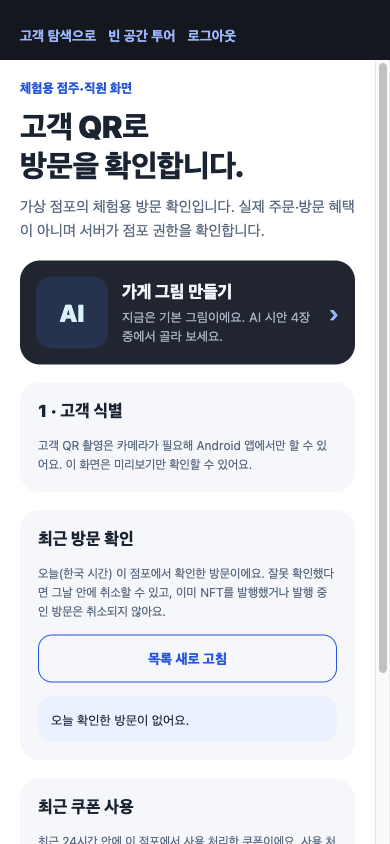
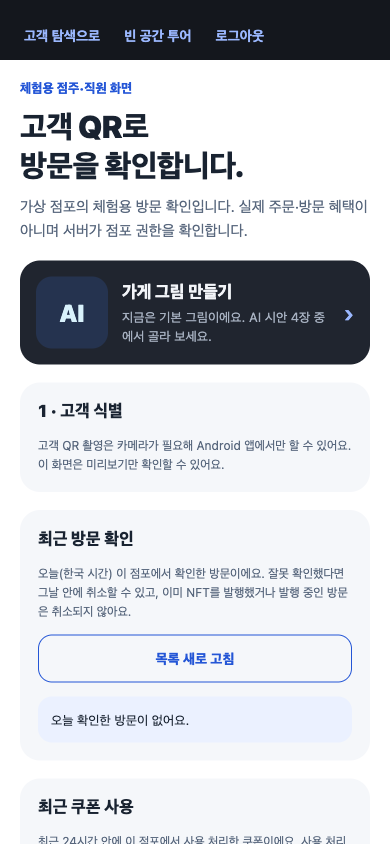
PR #313 리뷰 대응 문서·증거를 남긴다 (Issue #309)
D-065에 리뷰 대응 단락 추가(가드 위치·근거), TEST_STATUS·PROJECT_STATE·
HANDOFF 최신 항목, AI_USAGE 기록. 도감 화면의 새 미해결 결함을
BLOCKERS B-029로 분리했다 — 배지 1개 이상을 모은 계정으로 웹 도감을
열면 CSSStyleDeclaration 충돌이 난다. 6개 가설(GiftBox·Medallion·
PassportStampPage 애니메이션, 봉투 열기 세 화면, React Compiler)을
각각 되돌려 재현을 확인하고 모두 기각했지만 원인 컴포넌트는 특정하지
못했다. 배지 0개 상태는 영향 없어 심사 시연 자체는 가능하다.

역할 선택·체험 로그인(명/암)·점주 체험(명/암) 스크린샷을 이번 라운드의
깨끗한 빌드(바이섹션 임시 수정 없이)로 다시 찍고, 도감 충돌 재현
스크린샷을 새로 더했다.

Constraint: B-029는 원인 미특정이라 이 PR 범위에서 고치지 않는다(명세
결함이 아니라 재현되는 실제 버그이므로 되돌리거나 숨기지 않고 BLOCKER로
남김).
Confidence: high(재현 조건을 curl + Playwright로 재현 가능한 최소
단계까지 좁혔다. 원인 컴포넌트 식별은 low).
Scope-risk: 문서·증거 변경만, 코드 변경 없음.
Tested: bash tools/gate.sh(evidence consistency 포함) PASS.
Not-tested: B-029의 근본 원인.

diff --git a/docs/DECISIONS.md b/docs/DECISIONS.md
@@ -105,7 +105,7 @@
 | D-061 | PR #257(사진 수집품 제작기) 병합 지시와 그 범위 | 소유자가 2026-09-30 리뷰 결과(🔴 3건)를 본 뒤 PR 전체에 "직접 고쳐서 병합 ㄱㄱ"라고 지시했다. 그 리뷰는 `expo-audio`(D-045가 새 npm 의존성에 요구한 소유자 승인)와 점주가 직접 올린 실제 얼굴·가게 사진·목소리(D-056이 D-036·D-045·D-048의 "실제 점포 사진 금지"와 달리 허용)에 소유자 확인이 필요하다고 적었다. **이 둘은 별도의 명시적 확인이 아니라 이 병합 지시를 통해 승인된 것으로 기록한다.** Android 재생 전용 `expo-audio`(마이크·백그라운드 재생 권한 없음)와 사진 제작기의 실제 사진·목소리 사용이 그 대상이며, 소유자가 되돌리려면 이 행을 고치고 해당 기능을 뺀다. 병합 전 수정: 획득은 참조만 저장, 보상 경로 잠금 완화·실패 분리, 삭제한 점주 발행본 배포 중지·게시 중지·삭제·운영자 미디어 제거, MP3 태그·원본 EXIF 제거, 8 MiB 본문·점포별 쓰기 제한, 제작기용 캠페인 목록 API. **처리방침 버전:** 같은 범위에서 `docs/privacy.html`에 사진·목소리 수집품 처리 안내(수집 항목·보관·삭제·운영자 제거)를 더했으므로 `CURRENT_PRIVACY_VERSION`(API·웹·앱 상수)을 `privacy-2026-10-01`로 올려 모든 계정이 다시 동의한다(약관 `terms-2026-09-30`은 그대로). **옛 빌드에 미치는 영향:** 동의 화면이 든 빌드(운영 test.4, 시연 Preview 12·13)는 이 버전을 모르므로, 서버가 `privacy-2026-10-01`을 요구하는 순간(D-059 설계) "앱을 업데이트해 주세요" 안내에 막혀 새 APK를 설치할 때까지 쓸 수 없다. 동의 화면이 없는 더 옛 앱(운영 test.3, 시연 Preview 11 이하)은 D-059대로 막지 않는다. **배포 순서(지킬 것):** 병합 → 이 코드가 든 운영·시연 APK를 새로 빌드해 배포 → **그 뒤에** API·웹 배포. API·웹을 먼저 배포하면 설치돼 있는 동의 화면 빌드가 새 APK가 나오기 전까지 업데이트 안내에 막힌다 | `USER_CONFIRMED` | 소유자 지시(2026-09-30 "직접 고쳐서 병합 ㄱㄱ")와 [리뷰](https://github.com/2026-KW-HACKATHON/27_MassCOM/pull/257). `expo-audio`·실제 사진·목소리는 이 지시에 포함된 것으로 기록한 것이라 소유자가 뒤집을 수 있다. 인물·목소리의 삭제 요구는 처리방침의 운영자 제거 절차로 받는다. 실기기·운영 배포 검증은 별도다 **순서 이탈 기록(2026-10-01):** 위 순서와 달리 메인 스레드가 일부러 두 APK를 먼저 빌드하고 운영·시연을 배포한 뒤 새 서버에 대해 폰에서 새 동의 화면을 확인하고 나서 test.5·Preview 14를 게시했다(새 동의 화면은 새 버전을 이미 요구하는 서버에서만 확인할 수 있다). 운영 배포 완료부터 게시(약 20:20 UTC)까지 약 15~20분 동안 동의하지 않은 test.4·Preview 12·13 계정이 업데이트 안내에 막혔고 이 빌드는 팀 계정만 쓴다([증거](evidence/deployment-7bcfef9-2026-10-01.json)) |
 | D-063 | 마일리지 상점(코스메틱 캐릭터 재뽑기, Issue #298) | **소유자 결정(`USER_CONFIRMED`, 2026-10-01):** (1) 재뽑기는 같은 등급 안에서만 균등 무작위이고 코스메틱 프로필 캐릭터에만 적용된다. (2) 현금 충전·사용자 간 양도·환전은 없다(포인트는 서버가 방문 기록으로 계산만 하고 저장된 "돈"이 아니다). (3) 상점 캐릭터는 펭귄일 필요가 없다 — 에이전트가 "하늘 동네 가게 친구들" 9종(등급마다 3종: 브론즈 요리사 냥이·카페 곰돌이·산책 토끼, 실버 빵집 다람쥐·꽃집 고슴도치·책방 부엉이, 골드 떡집 호랑이·시장 너구리·세탁소 물범)을 선택했다. 방문 보상·도감·NFT·쿠폰 규칙은 바뀌지 않는다. **구현 선택(`PROPOSED`, 에이전트):** (a) 적립 공식 `earned = 50 × 센 방문 + 100 × 그 방문들의 서로 다른 점포 + 200 × 완성한 점포 시리즈`는 저장하지 않고 요청마다 계산하며, 센 방문·서로 다른 점포는 `GET /me/badges`의 메달 집계와 같은 SQL(`badge-rewards.ts`의 `countedVisitFromSql`/`countedVisitFilterSql`)을 그대로 재사용한다(다시 만들지 않음). (b) 완성한 점포 시리즈는 그 점포의 아무 캠페인이든(끝났거나 비공개여도) 모든 보상 목표에 유효·비철회 `reward_entitlements`가 있어야 하며, 공개 점포 카탈로그는 보지 않는다. (c) 가격은 브론즈 100P·실버 200P·골드 400P, 시간당 재뽑기 30회 제한. (d) 재뽑기 트랜잭션은 기존 `assertActive` 계정 잠금만 쓰고 별도 잠금은 두지 않는다(방문 수령·되돌리기와 같은 직렬화). | `USER_CONFIRMED`(1~3) · `PROPOSED`(a~d) | 2026-10-01, 브랜치 `feat/298-shop-server`(worktree `.worktrees/298-shop-server`), migration 0038(0037은 PR #300이 먼저 쓸 수 있어 파일명 순서로만 뒤를 잡음, PR 설명에 의존 관계 기록). 서버 구현만이며 Android(상점 탭·뽑기 연출)는 후속 PR. 세부는 [설계](superpowers/specs/2026-10-01-mileage-shop-design.md). 코드·시험 상태는 [TEST_STATUS](TEST_STATUS.md) |
 | D-062 | 점주 체험 권한을 요청·승인하는 서버 흐름(PR1), Issue #294 | 허용목록 기반 STAFF 부여(`SHOWCASE_INVITED_SUBJECT_SHA256`)는 그대로 두고, **두 번째 경로**로 시연 로그인 계정이면 누구나 서버에 요청을 넣어 8자 코드를 받고(migration 0037 `showcase_access_requests`, 운영 DB에는 빈 스키마만) 승인자가 수락하면 같은 가상 점포 A STAFF 권한을 받는다. 승인자 역할은 새로 만들지 않고 시연 DB의 `platform_admins`를 그대로 쓴다(계정 삭제 purge·3년 감사는 D-059가 이미 구현한 것을 물려받음). 승인 핵심(`grantShowcaseStaffTx`: DB 이름·계정 활성·가상 점포 A·멤버십)은 기존 `grant-staff.ts`에서 떼어내 운영자 명령과 공유하고, 요청 쪽은 허용목록·세션 검사를 건너뛴다(요청 행 자체가 자격 증명). **부트스트랩(최초 승인자를 만드는 법):** 승인자 후보가 직접 자신의 계정으로 로그인해 요청을 넣고 코드를 자신의 Gmail로 보내 신원을 증명하면, 운영자가 명령 하나(`grant:showcase:approver`)로 승인자 역할과 그 요청의 승인을 함께 끝낸다. 지정 승인자는 `msocs1324@gmail.com`·`priestess4637@gmail.com`이다. | `PROPOSED`(에이전트 구현 선택, 소유자 승인 전) | [Issue #294](https://github.com/2026-KW-HACKATHON/27_MassCOM/issues/294) 설계(2026-10-01 opus architect). 코드는 PR1(서버)만이고 모바일 화면(PR2)·테스트 방문(PR3, Issue #295)은 별도 PR이다. [B-028](BLOCKERS.md)이 지적한 "시연 직원 부여에 감사 행이 없다"의 **새 경로**는 요청 행 자체와 운영자 명령의 `platform_admin_role_audit` GRANT 행으로 메워지지만, 기존 허용목록 경로(`grant-staff.ts`)의 감사 공백은 이 PR 범위 밖이라 그대로 남는다. 자세한 API·데이터 모델은 [시연 인증 경계 문서](SHOWCASE_AUTH_GUARD.md#점주-체험-권한-요청승인-issue-294-pr1-서버)와 [apps/api/README.md](../apps/api/README.md#엔드포인트) |
-| D-065 | 시연 웹 체험(Expo 웹 빌드) 클라이언트, Issue #309 | 서버 쪽 결정(체험 세션·체험 가게 목록 제외·로컬 Bearer)은 D-064(브랜치 `feat/309-guest-trial-api`, 이 PR 기준 미병합)를 본다. 이 PR은 클라이언트만: `app.json`의 `web.output`을 `static`에서 `single`로 바꿔 Expo Router 정적 사전 렌더링이 Node에서 네이티브 전용 모듈(react-native-nitro-google-signin 등)을 실행하다 막히는 문제를 없앴다. `MASSCOM_WEB_BASE_URL`(시연 전용, `/play`)로 `experiments.baseUrl`을 설정하고 `export:web:showcase` 스크립트를 추가했다. 시연·개발 판별은 `Application.applicationId`(웹에서 항상 `null`) 대신 `getAppPackageId()`로 모았고, 웹에서는 `Constants.expoConfig`가 `android` 키를 통째로 빼므로(Playwright로 직접 확인) 남아 있는 `scheme`을 거꾸로 package id로 되돌리는 `package-id-from-scheme.ts`로 대체했다. Google 로그인(`react-native-nitro-google-signin`은 웹 빌드가 없음)은 네이티브 전용으로 유지하고, 웹은 체험 로그인(`POST /auth/guest-trial`)만 쓰도록 `auth-provider.tsx`를 `Platform.OS`로 가른다. 세션 저장소는 `platform-secure-store`(웹은 `localStorage`, `expo-secure-store`의 웹 구현은 빈 객체라 모든 호출이 던진다)로 교체했다. 카메라(방문 수령·친구·점주 직원 QR 식별)·기울임 센서 토글은 웹에서 안내 문구로 가린다 — 점주 직원 화면의 고객 QR 식별은 43자 보안 토큰을 손으로 입력하는 대체 수단을 만들지 않고(비현실적이고 토큰 노출 위험) 안내만 둔다(알려진 제한). 점주 체험 화면은 D-064의 `trialMerchantId`(공개되지 않는 개인 체험 가게)를 공개 목록 앞에 더해 찾는다. **부수 발견(근본 원인 수정):** `AuthApiClient`·`WalletApiClient`·`ConsentApiClient`·`AccountDeletionApiClient`·`AccountDeletionIntakeApiClient`가 기본 `fetch`를 `this.<필드>(...)`(메서드 호출 문법)로 불러, 실제 브라우저에서 "Illegal invocation"으로 모든 요청이 실패했다(Node의 `fetch`는 호출 주체를 검사하지 않아 기존 유닛 테스트·Android에서는 드러나지 않았다 — Playwright로 체험 로그인 화면을 직접 눌러보다 발견). 저장하는 쪽에서 `fetch.bind(globalThis)`로 고쳤다(5개 클라이언트 모두, 같은 모양이 아닌 나머지 API 클라이언트는 지역 변수로 받아 호출해 이 버그가 없음을 확인). **PR #311 병합(D-064) 반영:** 같은 429도 서버 코드로 갈린다 — 짧은 폭주(IP당 15분 20회)는 `GUEST_TRIAL_RATE_LIMITED`, 한 IP의 끝나지 않은 체험 30개 상한은 `GUEST_TRIAL_IP_LIMIT`(Retry-After 없음)이라 `auth-controller.ts`가 HTTP 상태만이 아니라 이 코드로도 갈라 별도 한국어 안내("이 네트워크에서 체험이 너무 많아요...")를 붙였다. | `PROPOSED`(에이전트 구현 선택, 소유자 승인 전) | Issue #309, 브랜치 `feat/309-showcase-web`(worktree `.worktrees/309-web`), 기준 커밋 `e2091f2`에 origin/main(#308 포함)을 병합. 로컬 임시로 `feat/309-guest-trial-api`를 스크래치 디렉터리에서만 합쳐(커밋하지 않음) Playwright로 guest start → consent → explore → collection → shop/role 점주까지 실제로 걸었다(`docs/evidence/309-showcase-web`). 이후 origin/main에 병합된 서버 PR #311(439ba83)을 실제로 합쳐 같은 계약(`trialMerchantId`·guest-trial 응답)을 로컬 API로 재확인했다. 코드·시험 상태는 [TEST_STATUS](TEST_STATUS.md) |
+| D-065 | 시연 웹 체험(Expo 웹 빌드) 클라이언트, Issue #309 | 서버 쪽 결정(체험 세션·체험 가게 목록 제외·로컬 Bearer)은 D-064(브랜치 `feat/309-guest-trial-api`, 이 PR 기준 미병합)를 본다. 이 PR은 클라이언트만: `app.json`의 `web.output`을 `static`에서 `single`로 바꿔 Expo Router 정적 사전 렌더링이 Node에서 네이티브 전용 모듈(react-native-nitro-google-signin 등)을 실행하다 막히는 문제를 없앴다. `MASSCOM_WEB_BASE_URL`(시연 전용, `/play`)로 `experiments.baseUrl`을 설정하고 `export:web:showcase` 스크립트를 추가했다. 시연·개발 판별은 `Application.applicationId`(웹에서 항상 `null`) 대신 `getAppPackageId()`로 모았고, 웹에서는 `Constants.expoConfig`가 `android` 키를 통째로 빼므로(Playwright로 직접 확인) 남아 있는 `scheme`을 거꾸로 package id로 되돌리는 `package-id-from-scheme.ts`로 대체했다. Google 로그인(`react-native-nitro-google-signin`은 웹 빌드가 없음)은 네이티브 전용으로 유지하고, 웹은 체험 로그인(`POST /auth/guest-trial`)만 쓰도록 `auth-provider.tsx`를 `Platform.OS`로 가른다. 세션 저장소는 `platform-secure-store`(웹은 `localStorage`, `expo-secure-store`의 웹 구현은 빈 객체라 모든 호출이 던진다)로 교체했다. 카메라(방문 수령·친구·점주 직원 QR 식별)·기울임 센서 토글은 웹에서 안내 문구로 가린다 — 점주 직원 화면의 고객 QR 식별은 43자 보안 토큰을 손으로 입력하는 대체 수단을 만들지 않고(비현실적이고 토큰 노출 위험) 안내만 둔다(알려진 제한). 점주 체험 화면은 D-064의 `trialMerchantId`(공개되지 않는 개인 체험 가게)를 공개 목록 앞에 더해 찾는다. **부수 발견(근본 원인 수정):** `AuthApiClient`·`WalletApiClient`·`ConsentApiClient`·`AccountDeletionApiClient`·`AccountDeletionIntakeApiClient`가 기본 `fetch`를 `this.<필드>(...)`(메서드 호출 문법)로 불러, 실제 브라우저에서 "Illegal invocation"으로 모든 요청이 실패했다(Node의 `fetch`는 호출 주체를 검사하지 않아 기존 유닛 테스트·Android에서는 드러나지 않았다 — Playwright로 체험 로그인 화면을 직접 눌러보다 발견). 저장하는 쪽에서 `fetch.bind(globalThis)`로 고쳤다(5개 클라이언트 모두, 같은 모양이 아닌 나머지 API 클라이언트는 지역 변수로 받아 호출해 이 버그가 없음을 확인). **PR #311 병합(D-064) 반영:** 같은 429도 서버 코드로 갈린다 — 짧은 폭주(IP당 15분 20회)는 `GUEST_TRIAL_RATE_LIMITED`, 한 IP의 끝나지 않은 체험 30개 상한은 `GUEST_TRIAL_IP_LIMIT`(Retry-After 없음)이라 `auth-controller.ts`가 HTTP 상태만이 아니라 이 코드로도 갈라 별도 한국어 안내("이 네트워크에서 체험이 너무 많아요...")를 붙였다. **PR #313 교차 리뷰 반영(Codex gpt-6.1-sol REQUEST_CHANGES 1×P1, Claude sonnet 보안 APPROVE 같은 지적 Medium+Low 2):** (1·P1) `app.config.ts`의 `platforms` 제한은 build-time 정보일 뿐 `expo export --platform web`을 실제로 막지 못함을 실측으로 확인해, 진짜 방어선을 런타임으로 옮겼다 — 새 `guest-trial-origin.ts`의 `isApprovedGuestTrialOrigin(packageId, apiUrl)`이 시연 패키지(`kr.masscom.wolgye.demo`)는 실제 시연 origin(`https://demo-api.masscom.kr`)과만, 개발 패키지(`kr.masscom.wolgye.dev`)는 loopback host와만 짝지어지는지 확인하고 나머지(운영 패키지·알 수 없는 패키지·주소 파싱 실패)는 모두 거절한다. `auth-provider.tsx`의 `guestTrialAvailable`이 이 함수를 거치게 해 맞지 않는 조합이면 체험 로그인 컨트롤러 자체를 만들지 않고 `WEB_SHOWCASE_ONLY` 사유로 로그아웃 상태를 유지한다(새 시험 4개 + `build-environment.test.ts`에 `platforms` 단언과 "값을 안 주면 막지 못한다"를 그대로 기록한 회귀 2개). (2·Low) `commerce-api.ts`·`showcase-merchant/index.tsx`의 주석이 "체험 가게는 `is_public=false`라 안 보인다"로 D-064(d)의 실제 결정(`is_public=true` 유지 + `NOT EXISTS` 필터)과 어긋나 있어 고쳤다. (3·4 UI) 웹 체험 로그인 패널의 eyebrow를 "개발용 계정"→"웹 체험"으로, 상시 노출되던 회색 안내 박스를 제거하고 복원 중·오류일 때만 보이게 하고, CTA를 전체 폭 56px 버튼으로 키우고 마스코트를 더했다(`auth-required/index.web.tsx`). 역할 선택의 "점주예요" 부제를 웹에서는 "로그인하면 점주 권한을 확인해요"→"내 체험 가게가 바로 열려요"로 바꿨다(`foundation/index.tsx`, `Platform.OS==='web'` 분기). (5 UI) 점주 체험 화면의 `StaffClaimScreen` 바깥 스크롤이 안쪽 스크롤과 겹쳐 두 번째 스크롤바가 보이던 문제를 웹에서만 `showsVerticalScrollIndicator={false}`로 가렸고(`merchant-claim/staff.tsx`), 상단 "고객 탐색으로·빈 공간 투어·로그아웃" 링크 줄이 390px에서 붙어 보이던 것을 `rowGap`/`columnGap` 분리와 버튼 좌우 여백으로 폈다(`showcase-merchant/index.tsx`, Android와 공유). **부수 발견:** `AccessibilityInfo.sendAccessibilityEvent`는 react-native-web에 구현이 없어 웹에서 "not a function"으로 던지던 것을, `focus-component.ts`의 `focusForAccessibility()` 가드로 6개 호출부(`reward-reveal`·`celebration`·`medal-detail`·`coupon-use-sheet`·`town-map/index`·`town-map/pin-sheet`)를 통일해 고쳤다(RN import가 있는 파일이라 `tsx --test` 직접 시험은 안 되는 기존 패턴을 따라 `town-map/index.test.ts`의 소스텍스트 단언만 갱신). **새로 찾은 미해결 결함(B-029로 분리, 이 PR 범위 밖):** 배지를 1개 이상 모은 계정으로 `/collection`을 웹에서 열면 `Failed to set an indexed property [0] on 'CSSStyleDeclaration'` 충돌이 난다 — `gift-box.tsx`·`medallion.tsx`·`passport-stamp-page.tsx`·봉투 열기 화면들·React Compiler 끄기까지 6개 가설을 각각 되돌려 재현해 모두 기각했지만 원인 컴포넌트는 특정하지 못했다. 배지 0개 상태의 도감은 영향이 없어 시연 자체는 가능하다. | `PROPOSED`(에이전트 구현 선택, 소유자 승인 전) | Issue #309, 브랜치 `feat/309-showcase-web`(worktree `.worktrees/309-web`), 기준 커밋 `e2091f2`에 origin/main(#308 포함)을 병합. 로컬 임시로 `feat/309-guest-trial-api`를 스크래치 디렉터리에서만 합쳐(커밋하지 않음) Playwright로 guest start → consent → explore → collection → shop/role 점주까지 실제로 걸었다(`docs/evidence/309-showcase-web`). 이후 origin/main에 병합된 서버 PR #311(439ba83)을 실제로 합쳐 같은 계약(`trialMerchantId`·guest-trial 응답)을 로컬 API로 재확인했다. 코드·시험 상태는 [TEST_STATUS](TEST_STATUS.md) |
 ## 2026-10-02 로그인 없는 시연 웹 체험 (Issue #309)
 
 | ID | 항목 | 결정·구현 기본값 | 현재 상태 | 근거·영향 |

diff --git a/docs/TEST_STATUS.md b/docs/TEST_STATUS.md
@@ -1,5 +1,7 @@
 # 테스트 상태
 
+2026-10-02 [Issue #309](https://github.com/2026-KW-HACKATHON/27_MassCOM/issues/309) [PR #313](https://github.com/2026-KW-HACKATHON/27_MassCOM/pull/313) 교차 리뷰(Codex gpt-6.1-sol REQUEST_CHANGES 1×P1, Claude sonnet 보안 APPROVE 같은 지적 Medium+Low 2) 반영, 브랜치 `feat/309-showcase-web`: **P1** 런타임 가드 `isApprovedGuestTrialOrigin()`(새 `config/guest-trial-origin.ts`)을 추가해 `auth-provider.tsx`의 `guestTrialAvailable`이 패키지·API origin 조합(시연 패키지↔시연 origin, 개발 패키지↔loopback만)을 확인하게 했다 — `app.config.ts`의 `platforms` 빌드 제한은 `expo export --platform web`을 실제로 막지 못함을 실측 확인했고(production/development에 `MASSCOM_WEB_BASE_URL` 없이도 export가 "성공"), 이 런타임 검사가 진짜 방어선임을 `build-environment.test.ts`에 그대로 기록했다. **Low** `commerce-api.ts`·`showcase-merchant/index.tsx`의 "체험 가게는 is_public=false라 안 보인다" 주석을 D-064(d)의 실제 동작(is_public=true 유지 + `NOT EXISTS` 필터)으로 고쳤다. **UI(3·4·5)** 웹 체험 로그인 패널 eyebrow "개발용 계정"→"웹 체험", 상시 노출 회색 안내 제거, 전체 폭 56px CTA·마스코트 추가(`auth-required/index.web.tsx`); 역할 선택 "점주예요" 부제를 웹에서 "내 체험 가게가 바로 열려요"로(`foundation/index.tsx`); 점주 체험 화면의 중첩 스크롤바를 웹에서 숨기고(`merchant-claim/staff.tsx`) 상단 링크 줄 간격을 `rowGap`/`columnGap`으로 분리(`showcase-merchant/index.tsx`, Android와 공유 코드). **부수 발견(근본 원인 수정):** `AccessibilityInfo.sendAccessibilityEvent`가 react-native-web에 없어 웹에서 "not a function"으로 던지던 것을 새 `accessibility/focus-component.ts`의 `focusForAccessibility()`로 6개 호출부에서 통일했다. **결과:** `npm test --prefix apps/mobile` **1041/1041 PASS**(새 시험 6개: `guest-trial-origin.test.ts` 4개 + `build-environment.test.ts`의 origin 가드·`platforms` 회귀 2개), `npm run typecheck`·`npm run lint --prefix apps/mobile` PASS, `npm run export:android --prefix apps/mobile`(production·showcase) PASS, `MASSCOM_BUILD_SOURCE_COMMIT`·`MASSCOM_SHOWCASE_GOOGLE_WEB_CLIENT_ID`를 넘긴 `npm run export:web:showcase --prefix apps/mobile` PASS, `bash tests/mobile/check_accessibility_semantics_test.sh` PASS, `bash tools/gate.sh` PASS. 새 가드(`isApprovedGuestTrialOrigin`의 각 분기, `focusForAccessibility`의 함수 존재 확인)마다 되돌려 대응 시험이 실패하는지 확인한 뒤 복구했다. **실제 걸어본 재확인(로컬, Playwright, 병합된 PR #311 서버로):** 역할 선택(웹 부제 확인)→체험 로그인(웹 전용 패널 확인)→동의→탐색→점주 체험(trialMerchantId로 찾은 체험 가게, 링크 줄·스크롤 확인) 구간은 콘솔 오류 0으로 재확인했고 `docs/evidence/309-showcase-web/`의 역할 선택·체험 로그인(명/암)·점주 체험(명/암) 스크린샷을 이 라운드의 깨끗한 빌드로 다시 찍었다. **새로 찾은 미해결 결함(B-029, 이 PR 범위 밖으로 분리):** 배지를 1개 이상 모은 계정으로 `/collection`을 열면 `Failed to set an indexed property [0] on 'CSSStyleDeclaration'` 충돌이 난다(`showcase-local-customer`에 테스트 방문으로 배지 1개를 만든 뒤 재현, `docs/evidence/309-showcase-web/collection-earned-crash-light-390.png`) — 배지 0개 상태의 도감은 영향이 없다. 6개 가설(GiftBox·Medallion·PassportStampPage의 Animated.View, 봉투 열기 세 화면, React Compiler)을 각각 비활성화해 재빌드했지만 충돌이 그대로 재현돼 모두 기각했다(원인 미특정, [BLOCKERS B-029](BLOCKERS.md) 참고). 이 때문에 요청받은 전체 걷기("guest start→테스트 방문→봉투 열기→도감→점주 체험, 콘솔 오류 0")는 도감 구간에서 `BLOCKED`다.
+
 2026-10-02 [Issue #309](https://github.com/2026-KW-HACKATHON/27_MassCOM/issues/309) 시연 웹 체험(클라이언트) 후속: 서버 PR #311이 main(`439ba83`)에 병합돼 `origin/main`을 실제로 합쳤다(이전 항목의 스크래치 임시 병합 대신). 병합 후 리뷰로 바뀐 계약 반영: 같은 `429`도 서버 코드로 갈린다(짧은 폭주 `GUEST_TRIAL_RATE_LIMITED` vs 한 IP 끝나지 않은 체험 30개 상한 `GUEST_TRIAL_IP_LIMIT`, Retry-After 없음) — `auth-controller.ts`의 `guestTrialFailureReason`이 HTTP 상태만이 아니라 이 코드로도 가르도록 `SignedOutReason`에 `GUEST_TRIAL_IP_LIMIT`을 추가하고, `status-copy.ts`에 "이 네트워크에서 체험이 너무 많아요..." 한국어 안내를 더했다(체험 가게 방문이 친구·메달 집계에서 빠지는 것은 서버 전용 변경이라 클라이언트 수정 없음). **결과:** `npm test --prefix apps/mobile` 1035/1035 PASS(기존 시험에 새 단언 추가, 새 시험 블록은 아님), typecheck·lint·`bash tools/gate.sh` PASS. 새 분기(`GUEST_TRIAL_IP_LIMIT`)를 되돌려 대응 시험이 실패하는지 확인한 뒤 복구. 병합된 실제 서버(스크래치 병합이 아닌 이 worktree의 `apps/api`)로 로컬 PostgreSQL+API를 다시 띄워 `/auth/guest-trial`·`GET /showcase/access-requests/mine`의 `trialMerchantId`·`/merchants`에서 체험 가게 제외를 재확인했다.
 
 2026-10-02 [Issue #309](https://github.com/2026-KW-HACKATHON/27_MassCOM/issues/309) 시연 웹 체험(클라이언트), 브랜치 `feat/309-showcase-web`, worktree `.worktrees/309-web`, 기준 커밋 `e2091f2`에 origin/main(#308 포함) 병합: **빌드 배관** `app.json`의 `web.output`을 `static`→`single`로 바꿔 Expo Router 정적 사전 렌더링이 Node에서 `react-native-nitro-google-signin` 등 네이티브 전용 모듈을 실행하다 막히는 문제를 없앴다(바꾸기 전 `expo export --platform web`은 `__fbBatchedBridgeConfig is not set` Invariant Violation으로 실패, 바꾼 뒤 PASS). `MASSCOM_WEB_BASE_URL`(시연 전용, `/play`, 다른 variant는 거절)로 `experiments.baseUrl`을 설정하고 `export:web:showcase` 스크립트를 추가했다(exported `index.html`의 모든 자산 경로가 `/play/...`로 확인됨). **시연·개발 판별** `getAppPackageId()`로 15곳 이상의 `Application.applicationId`(웹에서 항상 `null`) 직접 참조를 모았다. 웹에서는 `Constants.expoConfig`가 `android` 키를 통째로 빼므로(Playwright로 `window`에 직접 찍어 확인) `scheme`을 거꾸로 package id로 되돌리는 `package-id-from-scheme.ts`(순수 함수, 단위 테스트 2개)로 대체했다. **인증** Google 로그인은 네이티브 전용(`google-sign-in-runtime.web.ts` 스텁), 웹은 체험 로그인(`POST /auth/guest-trial`)만 — `auth-controller`에 `signInAsGuest`·`GUEST_TRIAL_RATE_LIMITED`/`GUEST_TRIAL_BUSY`(429/503 상태 코드로 구분)를 더했다. 세션 저장소는 `platform-secure-store`(웹은 `localStorage`)로 교체(`expo-secure-store`의 웹 구현은 빈 객체라 모든 호출이 던진다). **부수 발견(근본 원인 수정, 브라우저에서만 재현):** `AuthApiClient`·`WalletApiClient`·`ConsentApiClient`·`AccountDeletionApiClient`·`AccountDeletionIntakeApiClient`가 기본 `fetch`를 `this.<필드>(...)`로 불러 실제 브라우저에서 "Illegal invocation"으로 모든 요청이 실패하던 것을 `fetch.bind(globalThis)`로 고쳤다(Node `fetch`는 호출 주체를 검사하지 않아 기존 유닛 테스트에서는 드러나지 않음 — 가짜 브랜드 체크 fetch로 재현하는 회귀 시험 5개 추가, 각각 고치기 전으로 되돌려 실패 확인 후 복구). **카메라·센서** 방문 수령·친구·점주 직원 화면의 QR 촬영과 수집품 기울임 토글은 `can-use-camera`/`can-use-tilt-sensor`로 웹에서 가린다(점주 직원 화면의 고객 QR 식별은 대체 입력 없이 안내 문구만 — 43자 보안 토큰 손 입력은 비현실적이고 노출 위험이라 알려진 제한으로 남김). **점주 체험 화면** 서버 PR #311의 `trialMerchantId`(개인 체험 가게, 공개 목록에 없음)를 `findShowcaseStaffMerchant` 목록 앞에 더해 찾도록 `commerce-api.ts`·`showcase-merchant/index.tsx`를 바꿨다. **결과:** `npm test --prefix apps/mobile` 1035/1035 PASS(새 시험 약 35개 포함), `npm run typecheck`·`npm run lint --prefix apps/mobile` PASS, `npm run export:android --prefix apps/mobile`(production·showcase 모두) PASS, 새 `npm run export:web:showcase --prefix apps/mobile` PASS, `bash tests/mobile/check_accessibility_semantics_test.sh` PASS. **실제 걸어본 확인(로컬, Playwright):** 서버 PR #311(`feat/309-guest-trial-api`, 미병합)을 스크래치 디렉터리에서만 임시로 합쳐(커밋 안 함) 로컬 API(`masscom_showcase_test`)를 띄우고, API와 같은 origin으로 정적 파일+API를 함께 내주는 임시 프록시로 `APP_VARIANT=development` 웹 빌드를 서빙해 guest start(역할 선택: 사용자/점주)→체험 로그인→동의→탐색(가상 점포 A·B·C, 체험 가게 제외 확인)→도감(배지 0/9 등 빈 상태)→점주 역할(trialMerchantId로 찾은 체험 가게, 카메라 안내 문구)까지 콘솔 오류 0으로 확인(`docs/evidence/309-showcase-web`, 계정 ID·QR 비노출). **NOT_RUN:** 실제 서버 PR #311과의 통합(미병합이라 임시 로컬 확인만), CI에 `export:web:showcase` 단계 추가(이 PR에 포함, 실행은 CI에서), Caddy·compose 배포(다른 PR 범위), 실제 브라우저 수동 QA(크롬 개발자 도구 외 다른 브라우저).2026-10-02 [Issue #309](https://github.com/2026-KW-HACKATHON/27_MassCOM/issues/309) PR #311 교차 리뷰 반영(같은 브랜치 `feat/309-guest-trial-api`): **P1(Claude opus 보안)** IP당 15분 5회만으로는 한 IP가 하루 약 480번 시작해 300명 상한을 계속 채울 수 있었다 → 체험 행에 클라이언트 키 HMAC(`client_key_hash`, 0039 수정, 원래 IP 없음)을 두고 같은 advisory lock 아래 같은 키의 끝나지 않은 체험 30개면 `429 GUEST_TRIAL_IP_LIMIT`, 폭주 제한은 15분 20회(공용 NAT), 정리·계정 삭제가 해시를 지우고 DB CHECK가 끝난 행의 해시를 막는다. **P2(Codex gpt-6.1-sol)** 체험 가게 방문이 날짜가 바뀐 뒤 친구 도장·탐험 메달에 드러났다 → 공유 `countedVisitFilterSql`에서 체험 가게 방문을 뺐다(친구 값과 `/me/badges`·마일리지 같은 집합 유지). 다른 계정이 볼 수 있는 조회를 다시 훑었다: 공개 목록·추천(이미 제외)·친구(이번 수정) 밖의 도감·쿠폰·상점·점원 화면·관리자는 본인·자기 가게·운영 전용 범위다. **결과:** `npm test --prefix apps/api` 327/327 PASS, typecheck·build PASS, `npm run test:postgres`(폐기용 `postgres:16.10-alpine`, 만들고 지움) **342개 중 340 PASS·0 FAIL·2 기존 SKIP**, `guest-trials.postgres.integration.ts` 10/10(새 2건). **변이 시험 28건 모두 실패 확인**(기존 21건 재실행 + 새 7건: 키당 30개 상한, 정리의 해시 지우기, 삭제의 해시 지우기, HMAC→평문 SHA-256, 폭주 제한 20, 센 방문의 체험 가게 제외, `GUEST_TRIAL_IP_LIMIT`→429), `bash tools/gate.sh` PASS.

diff --git a/docs/BLOCKERS.md b/docs/BLOCKERS.md
@@ -30,6 +30,7 @@
 | B-026 | **팀 결제 확정 대기(2026-09-30).** 소유자가 "OpenAI 키는 팀 결제가 확정되지 않아 나중에 넣는다. 넣었다는 가정하에 완성해 달라"고 해서 시연 서버 `/opt/masscom-showcase/runtime.env`에 `SHOWCASE_OPENAI_API_KEY`를 넣지 않았고, 시연 API의 기동 로그는 `AI store art: disabled (OPENAI_API_KEY is empty)`([배포 증거](evidence/ai-store-art-deployment-2026-09-30.json)). 운영 키는 D-050에 따라 소유자 채널이 생길 때까지 계속 비우므로 운영은 이 항목의 대상이 아님. `docs/privacy.html`의 OpenAI 문의 주소도 소유자 확인 전. 월 예산은 USD 5로 확정([D-058](DECISIONS.md)). **켜기 준비는 끝남**([Issue #256](https://github.com/2026-KW-HACKATHON/27_MassCOM/issues/256), [증거](evidence/ai-art-enable-rehearsal-2026-09-30.json)): 켜기·끄기·상태 스크립트 `infra/showcase-host/enable-ai-art.sh`와 가짜 `docker` 시험, 가짜 키·가짜 OpenAI로 배포와 같은 Dockerfile 이미지를 돌린 컨테이너 리허설(224개 확인 PASS) | 사장님 AI 가게 그림의 시안 받기가 꺼져 있어 화면은 "준비 중"만 보이고 실제 OpenAI 호출·비용·지연·고객 화면의 AI 그림 표시를 실증할 수 없음 | 팀 결제 확정 뒤 소유자가 이 순서로 한다(에이전트는 키를 만들거나 저장소·대화에 두지 않는다): ① 서버 `/opt/masscom-showcase/runtime.env`(권한 600)에 `SHOWCASE_OPENAI_API_KEY=<키>` 한 줄을 직접 더한다 ② `sudo bash /opt/masscom-showcase/releases/<릴리스>/infra/showcase-host/enable-ai-art.sh enable`(그 릴리스에 스크립트가 없으면 저장소의 파일을 서버로 복사해 실행) ③ 출력의 `AI store art: enabled`·`showcase-api recreated ... healthy`·월 예산 5·하루 한도 3/3 확인 ④ [첫 실제 호출 확인표](../infra/showcase-host/README.md)(시안·최종 지연, `ai_art_spend` 비용, 최종 예상 $0.18 재보정, 고객 화면 표시, 월 예산 잔여)를 실행하고 결과를 증거로 남김 ⑤ OpenAI 문의 주소를 확인해 `docs/privacy.html`에 채움 | `BLOCKED` |
 | B-027 | 운영 NFT는 발행 준비 중(`NFT_MINTING_MODE: PREPARING` 고정, D-054)이지만 그 사이 생긴 보상 권리도 기존대로 `claim_expires_at`이 달성 뒤 90일이다 | 발행 서버·메인넷 승인이 90일보다 늦으면 발행 준비 중에 받은 권리가 발행을 열기 전에 만료돼 "권리 기록, 발행은 나중" 결정과 어긋난다(opus 보안 리뷰 🟡) | **go-live 전제 조건:** 운영을 `LIVE`로 바꾸기 전에 ① PREPARING 동안 생긴 권리의 `claim_expires_at`을 늘리는 migration(대상·새 기한은 그때 소유자 확인), ② 발행 서버·메인넷·NFT 시리즈 준비, ③ 그 뒤 compose의 `NFT_MINTING_MODE`를 바꾸는 별도 변경 순서로 연다. 지금은 기한 계산을 바꾸지 않는다 | `BLOCKED` |
 | B-028 | 개인정보의 안전성 확보조치 기준 제8조(개인정보취급자의 접속기록)를 지키는지 법률 검토를 하지 않았다: 관리자 웹 로그인·접속은 별도로 기록되지 않고(웹 세션 표와 감사 표만 있다), 운영 Caddy는 요청별 접속 기록을 남기지 않는다. 감사 기록 보관 기간(접근권한 3년·처리 기록 1년)은 정했지만 무엇을 접속기록으로 남겨야 하는지는 확정하지 않았다(Issue #253 독립 보안 리뷰 지적) | 실제 개인정보를 다루는 운영이 시작되면 관리자·점주가 언제 무엇을 조회·변경했는지 사후 확인이 부족할 수 있다. 이 PR 범위는 아니다 | 법률 검토로 접속기록 대상·항목·월별 점검 필요 여부를 정하고 필요하면 관리자 로그인·조회 기록과 점검 절차를 후속 Issue로 구현한다. **같은 후속에서 접근권한 기록의 빈틈도 채운다(이 PR 범위 밖):** 계정 삭제가 `platform_admins`를 지울 때(`apps/api/src/postgres/account-deletion.ts:289`) `platform_admin_role_audit`에 REVOKE 행을 남기지 않고, 시연 직원 부여(`apps/api/src/showcase/grant-staff.ts:67`)는 `merchant_members`만 만들 뿐 감사 행이 없다 | `BLOCKED` |
+| B-029 | [PR #313](https://github.com/2026-KW-HACKATHON/27_MassCOM/pull/313) 리뷰 대응 중 웹 빌드에서 처음 발견(Issue #309): 로그인한 계정이 배지를 1개 이상 모은 상태로 `/collection`(도감)을 열면 `TypeError: Failed to set an indexed property [0] on 'CSSStyleDeclaration': Indexed property setter is not supported.`가 던져지고 뒤이어 `Error: Attempted to navigate before mounting the Root Layout component.`가 콘솔에 남는다(기존 유닛 시험·Android에서는 드러나지 않음 — 실제 Chrome에서 배지를 얻은 뒤 도감을 연 것은 이번이 처음). 재현: `showcase-local-customer` 계정으로 `POST /showcase/test-visits` 한 번(또는 체험 로그인 뒤 같은 호출)으로 배지 1개를 만들고, 그 계정으로 로그인한 웹 빌드에서 "내 탐험 여권 보기" 링크를 누른다(`docs/evidence/309-showcase-web/collection-earned-crash-light-390.png`). 가진 데이터(배지 0개)로 여는 `/collection`은 재현되지 않는다. **조사한 가설(모두 기각, 각각 되돌려 빌드해 재현 지속 확인 후 원복):** `gift-box.tsx`(GiftBox의 `Animated.View`·`transformOrigin`), `medallion.tsx`(`Animated.createAnimatedComponent(Circle)` + `useAnimatedProps`), `passport-stamp-page.tsx`(`StampSlot`의 조건부 `Animated.View`), `collectible-reveal.tsx`/`envelope-reveal.tsx`/`envelope-card.tsx`(봉투 열기 연출), `mascot-reaction-toast.tsx`, `app.json`의 `experiments.reactCompiler` 끄기. 모두 최소 한 번씩 비활성화·stub 후 재빌드했지만 충돌이 그대로 재현돼 단독 원인에서 제외했다. react-native-web이 `useAnimatedStyle`/`useAnimatedProps` 결과를 DOM `style` 배열 인덱스로 쓰려다 생기는 문제로 보이지만 어느 컴포넌트의 어느 스타일 값이 배열인지는 특정하지 못했다(`--no-minify` export로 얻은 스택은 React-DOM 내부 `setValueForStyle→setProp→completeWork`까지만 보이고 컴포넌트 이름이 지워져 있다) | `도감`(`/collection`) 화면은 PR #313이 요구한 "guest start→테스트 방문→봉투 열기→도감→점주 체험, 콘솔 오류 0" 전체 걷기의 마지막 PASS를 막는다. 배지를 아직 못 모은 체험 계정은 영향이 없어 심사 시연 자체는 가능하지만, 체험자가 실제로 도장을 2개 이상 찍고 도감을 열면 화면이 깨질 수 있다. 같은 코드가 Android 빌드에도 쓰이므로(공유 코드) 운영 Android 쪽 영향 여부는 별도 확인이 필요하다 | 이 버그를 재현하는 최소 React-DOM 트리(react-native-web만 두고 Expo Router·API 없이)를 만들어 원인 컴포넌트를 좁히거나, Sentry/소스맵이 연결된 환경에서 실제 컴포넌트 이름이 보이는 스택을 얻는다. 원인을 찾으면 Android variant에도 같은 결함이 있는지 실기로 교차 확인한다 | `BLOCKED` |
 
 ## 사진 제작기 검증·운영 경계 (Issue #252)
 

diff --git a/docs/PROJECT_STATE.md b/docs/PROJECT_STATE.md
@@ -2,7 +2,9 @@
 
 ## 시연 웹 체험(Expo 웹 클라이언트) (Issue #309, 2026-10-02)
 
-[Issue #309](https://github.com/2026-KW-HACKATHON/27_MassCOM/issues/309), 브랜치 `feat/309-showcase-web`(worktree `.worktrees/309-web`), 기준 main `e2091f2`에 origin/main(#308 포함) 병합. 서버 쪽(체험 세션·체험 가게 목록 제외)은 별도 PR #311(`feat/309-guest-trial-api`, 미병합)이고 이 PR은 Expo 웹 빌드 클라이언트만 다룬다. **빌드:** `web.output: single`(정적 사전 렌더링이 Node에서 네이티브 전용 모듈을 실행하다 막히던 문제 제거), `MASSCOM_WEB_BASE_URL=/play`로 `experiments.baseUrl` 설정, `export:web:showcase` 스크립트. **판별:** `getAppPackageId()`로 모든 `Application.applicationId`(웹에서 `null`) 직접 참조를 교체, 웹에서는 `Constants.expoConfig.android`가 아예 없어 `scheme` 역조회(`package-id-from-scheme.ts`)로 대체(이전에 시도한 `android.package` 경로는 실제로 동작하지 않아 역할 선택 화면조차 뜨지 않았다 — Playwright로 확인 후 수정). **인증:** 웹은 Google 로그인 대신 체험 로그인(`POST /auth/guest-trial`)만, 세션 저장소는 `localStorage`(`platform-secure-store.web.ts`). **부수 발견:** `AuthApiClient` 등 5개 API 클라이언트가 `this.<필드>(...)` 형태로 `fetch`를 호출해 실제 브라우저에서 "Illegal invocation"으로 전부 실패하던 근본 버그를 `fetch.bind(globalThis)`로 고쳤다(Node 기반 유닛 테스트·Android에서는 드러나지 않았던 버그). **카메라·센서:** 웹에서 QR 촬영·기울임 토글을 안내 문구로 가림(점주 직원 화면의 고객 QR 식별은 대체 입력이 없어 알려진 제한으로 남김). **결과:** 모바일 1035/1035·typecheck/lint/export(android·web) 전부 PASS. 서버 PR #311을 스크래치 디렉터리에서만 임시로 합친 로컬 API로 Playwright가 guest start→동의→탐색→도감→점주(체험 가게)까지 실제로 걸어 콘솔 오류 0 확인(`docs/evidence/309-showcase-web`). 자세한 내용은 [TEST_STATUS](TEST_STATUS.md) 최신 항목과 [DECISIONS](DECISIONS.md) D-065. 서버 PR #311과의 실제 통합·Caddy/compose 배포·독립 리뷰·PR 병합은 `NOT_RUN`.## 로그인 없는 시연 웹 체험 서버 (Issue #309, 2026-10-02)
+[Issue #309](https://github.com/2026-KW-HACKATHON/27_MassCOM/issues/309), 브랜치 `feat/309-showcase-web`(worktree `.worktrees/309-web`), 기준 main `e2091f2`에 origin/main(#308 포함) 병합. 서버 쪽(체험 세션·체험 가게 목록 제외)은 별도 PR #311(`feat/309-guest-trial-api`, 미병합)이고 이 PR은 Expo 웹 빌드 클라이언트만 다룬다. **빌드:** `web.output: single`(정적 사전 렌더링이 Node에서 네이티브 전용 모듈을 실행하다 막히던 문제 제거), `MASSCOM_WEB_BASE_URL=/play`로 `experiments.baseUrl` 설정, `export:web:showcase` 스크립트. **판별:** `getAppPackageId()`로 모든 `Application.applicationId`(웹에서 `null`) 직접 참조를 교체, 웹에서는 `Constants.expoConfig.android`가 아예 없어 `scheme` 역조회(`package-id-from-scheme.ts`)로 대체(이전에 시도한 `android.package` 경로는 실제로 동작하지 않아 역할 선택 화면조차 뜨지 않았다 — Playwright로 확인 후 수정). **인증:** 웹은 Google 로그인 대신 체험 로그인(`POST /auth/guest-trial`)만, 세션 저장소는 `localStorage`(`platform-secure-store.web.ts`). **부수 발견:** `AuthApiClient` 등 5개 API 클라이언트가 `this.<필드>(...)` 형태로 `fetch`를 호출해 실제 브라우저에서 "Illegal invocation"으로 전부 실패하던 근본 버그를 `fetch.bind(globalThis)`로 고쳤다(Node 기반 유닛 테스트·Android에서는 드러나지 않았던 버그). **카메라·센서:** 웹에서 QR 촬영·기울임 토글을 안내 문구로 가림(점주 직원 화면의 고객 QR 식별은 대체 입력이 없어 알려진 제한으로 남김). **결과:** 모바일 1035/1035·typecheck/lint/export(android·web) 전부 PASS. 서버 PR #311을 스크래치 디렉터리에서만 임시로 합친 로컬 API로 Playwright가 guest start→동의→탐색→도감→점주(체험 가게)까지 실제로 걸어 콘솔 오류 0 확인(`docs/evidence/309-showcase-web`). 자세한 내용은 [TEST_STATUS](TEST_STATUS.md) 최신 항목과 [DECISIONS](DECISIONS.md) D-065.
+
+**[PR #313](https://github.com/2026-KW-HACKATHON/27_MassCOM/pull/313) 교차 리뷰 반영(2026-10-02):** 웹 export 자체를 막던 build-time `platforms` 제한이 실은 동작하지 않음을 실측해, 패키지·API origin 조합을 확인하는 런타임 가드(`guest-trial-origin.ts`)로 진짜 방어선을 옮겼다(P1). `is_public` 관련 주석 정정(Low), 웹 체험 로그인·역할 선택·점주 체험 화면 UI 정리(eyebrow·CTA·스크롤·링크 간격), `AccessibilityInfo.sendAccessibilityEvent`가 웹에 없어 던지던 버그를 부수 발견해 고쳤다. 모바일 **1041/1041** PASS(새 시험 6개)·typecheck·lint·export(android·web)·`bash tools/gate.sh` PASS. **새로 찾은 미해결 결함(B-029):** 배지 1개 이상을 모은 계정으로 `/collection`을 웹에서 열면 `CSSStyleDeclaration` 충돌이 난다(6개 가설 기각, 원인 미특정) — 배지 0개 상태는 영향 없어 시연은 가능하지만 "전체 걷기 콘솔 오류 0" 요구는 이 구간에서 `BLOCKED`다. 자세한 내용은 [TEST_STATUS](TEST_STATUS.md) 최신 항목·[DECISIONS](DECISIONS.md) D-065·[BLOCKERS](BLOCKERS.md) B-029. 서버 PR #311과의 실제 통합·Caddy/compose 배포·독립 리뷰·PR 병합은 `NOT_RUN`.## 로그인 없는 시연 웹 체험 서버 (Issue #309, 2026-10-02)
 
 [Issue #309](https://github.com/2026-KW-HACKATHON/27_MassCOM/issues/309) 서버 절반, 브랜치 `feat/309-guest-trial-api`(worktree `.worktrees/309-guest-api`), 기준 main `e2091f2`(이후 `36fed73` 병합), 결정 [D-064](DECISIONS.md). 시연 API에만 `POST /auth/guest-trial`을 열어 Google 신원 없는 계정·개인 체험 가게(가상 점포 A 복사, 목록·추천에서 숨김)·STAFF 권한·24시간 세션을 한 트랜잭션에서 만든다(migration 0039 `showcase_guest_trials`, 운영 DB는 빈 표). 운영 API는 알 수 없는 경로와 같은 404, IP당 15분 20회·같은 IP의 끝나지 않은 체험 30개(IP는 HMAC으로만 저장)·동시 체험자 300명, 시작마다 만료 체험자 20명 정리. 체험 가게는 공개 목록·추천·친구 도장/메달에 나오지 않는다(PR #311 교차 리뷰 P1·P2 반영). 체험 계정은 승인자가 될 수 없고 체험 가게는 AI 그림 비용을 쓰지 않는다. Caddy는 `demo-api.masscom.kr/play/`에서 정적 웹 번들(전용 CSP)을, `masscom.kr/demo`는 그리로 302를 낸다(배포는 하지 않음). 웹 클라이언트는 별도 PR(`feat/309-showcase-web`)이고 이 서버 PR이 먼저 병합돼야 한다. 검증은 [TEST_STATUS](TEST_STATUS.md), 계약은 [apps/api/README.md](../apps/api/README.md#엔드포인트).
 ## 시연 테스트 방문 + 로컬 QA 한 번에 띄우기 (Issue #295 PR3, 2026-10-02)

diff --git a/docs/HANDOFF.md b/docs/HANDOFF.md
@@ -12,7 +12,20 @@
 - **검증:** `npm test --prefix apps/mobile` 1035/1035 PASS(새 시험 약 35개), `npm run typecheck`·`npm run lint --prefix apps/mobile` PASS, `npm run export:android --prefix apps/mobile`(production·showcase 모두) PASS, 새 `npm run export:web:showcase --prefix apps/mobile` PASS, `bash tests/mobile/check_accessibility_semantics_test.sh` PASS. **실제 걸어본 확인:** 서버 PR #311(`feat/309-guest-trial-api`)을 별도 스크래치 git worktree에서만 임시로 origin/main 위에 fast-forward 병합해(커밋하지 않음, 내 worktree는 건드리지 않음) 로컬 PostgreSQL(`masscom_showcase_test`)+API(`ALLOW_INSECURE_DEMO_ACCOUNT=true`)를 띄우고, API와 같은 origin으로 정적 파일과 API를 함께 내주는 임시 Node 프록시(CORS는 origin 문제이지 path 문제가 아니므로, 실제 배포처럼 "같은 origin"을 흉내 냄)로 `APP_VARIANT=development` 웹 빌드를 서빙해 Playwright로 guest start(역할 선택 "사용자예요"/"점주예요")→체험 로그인→동의(3개 필수 체크)→탐색(가상 점포 A·B·C만 보이고 체험 가게 제외 확인)→도감(배지 0/9 등 빈 상태 정상 렌더)→점주 역할(trialMerchantId로 찾은 자기 체험 가게, 카메라 안내 문구, 콘솔 오류 0)까지 전부 확인했다. 역할 선택·체험 로그인(명/암)·점주 화면(명/암) 스크린샷을 390px 너비로 `docs/evidence/309-showcase-web/`에 남겼다(계정 ID·QR 비노출). 테스트에 쓴 로컬 API·Docker 컨테이너·스크래치 worktree는 모두 정리했다(`docker rm -f`, `git worktree remove`).
 - **문서:** `docs/DECISIONS.md` D-065, `docs/TEST_STATUS.md` 최신 항목, `docs/PROJECT_STATE.md` 최신 섹션, `docs/AI_USAGE.md`.
 - `NOT_RUN`: 실제 서버 PR #311과의 통합(미병합, 로컬 임시 확인만), Caddy·compose 배포(다른 에이전트 PR 범위, 건드리지 않음), 독립 리뷰, PR 생성·CI 실행 확인, 실제 Chrome 외 다른 브라우저에서의 수동 QA.
-- 다음 작업: 독립 리뷰(Claude sonnet + Codex 등 서로 다른 모델 2개), 서버 PR #311 병합 후 실제 통합 재확인, PR 생성·`bash scripts/check-pr-korean.sh`·CI, 리뷰 반영 뒤 병합, Caddy/compose 실배포는 다른 에이전트가 진행.## 2026-10-02 Issue #309 로그인 없는 시연 웹 체험 (서버·Caddy)
+- 다음 작업(이후 [PR #313](https://github.com/2026-KW-HACKATHON/27_MassCOM/pull/313)로 열림, 아래 후속 절 참고): 독립 리뷰(Claude sonnet + Codex 등 서로 다른 모델 2개), 서버 PR #311 병합 후 실제 통합 재확인, PR 생성·`bash scripts/check-pr-korean.sh`·CI, 리뷰 반영 뒤 병합, Caddy/compose 실배포는 다른 에이전트가 진행.
+
+## 2026-10-02 PR #313 교차 리뷰 반영 인수인계
+
+- 기준: `feat/309-showcase-web`, worktree `.worktrees/309-web`, PR #313(병합하지 않음, 리뷰 대응 push만). `git merge origin/main`으로 PR #311(439ba83)을 받은 뒤 작업했다.
+- **반영한 항목(1~5 전부):** P1(런타임 origin 가드 `guest-trial-origin.ts`), Low(is_public 주석 정정), UI 3·4(웹 체험 로그인 패널·역할 선택 부제), UI 5(점주 체험 화면 중첩 스크롤바·링크 줄 간격). 자세한 코드 위치는 [DECISIONS](DECISIONS.md) D-065의 "PR #313 교차 리뷰 반영" 단락, 검증 수치는 [TEST_STATUS](TEST_STATUS.md) 최신 항목.
+- **부수 발견:** `AccessibilityInfo.sendAccessibilityEvent`가 react-native-web에 없어 웹에서 던지던 버그(6개 호출부 수정).
+- **새로 분리한 미해결 결함:** [BLOCKERS B-029](BLOCKERS.md) — 배지 1개 이상 모은 계정의 `/collection`이 웹에서 `CSSStyleDeclaration` 충돌로 깨진다. 이번 라운드에 6개 가설(GiftBox·Medallion·PassportStampPage의 애니메이션, 봉투 열기 세 화면, React Compiler)을 각각 되돌려 재현을 확인하고 모두 기각했지만 원인 컴포넌트는 못 찾았다. 이 때문에 리뷰가 요구한 "전체 걷기 콘솔 오류 0"은 도감(배지 있는 상태) 구간만 `BLOCKED`고, 나머지 구간(guest start·동의·탐색·테스트 방문·점주 체험)은 콘솔 오류 0으로 재확인했다.
+- **검증:** `npm test --prefix apps/mobile` 1041/1041, typecheck·lint·`export:android`(production·showcase)·`export:web:showcase`(`MASSCOM_BUILD_SOURCE_COMMIT`·`MASSCOM_SHOWCASE_GOOGLE_WEB_CLIENT_ID` 더미값 필요)·`check_accessibility_semantics_test.sh`·`bash tools/gate.sh` 모두 PASS. 스크린샷 5장을 이번 라운드의 깨끗한 빌드로 재촬영(`docs/evidence/309-showcase-web/`), 충돌 재현 스크린샷 1장 추가.
+- **정리:** 이번 라운드에 쓴 로컬 API 프로세스·프록시·`masscom-qa-pg-309c` 컨테이너는 모두 종료·삭제했다. 기존 로컬 PostgreSQL+API(포트 3102, worktree `apps/api`)는 다음 작업자가 계속 쓸 수 있도록 남겨 뒀다(필요 없으면 정리).
+- `NOT_RUN`(이전 항목과 동일): 실제 서버 PR #311과의 배포 통합, Caddy·compose 배포, 실제 Chrome 외 브라우저 수동 QA.
+- 다음 작업: 사람 PR 리뷰·병합, B-029 원인 조사(React-DOM 소스맵·최소 재현으로 컴포넌트 특정), 그 뒤 Android variant에도 같은 결함이 있는지 실기 교차 확인.
+
+## 2026-10-02 Issue #309 로그인 없는 시연 웹 체험 (서버·Caddy)
 
 - 기준: main `e2091f2`에서 시작해 `36fed73`(#295 테스트 방문·`scripts/qa-local.sh`, PR #308)을 합침, worktree `.worktrees/309-guest-api`, 브랜치 `feat/309-guest-trial-api`, 커밋 `e37523d`(API)·`a736dbc`(Caddy·검증 스크립트)·계정 삭제 별칭 커밋·문서 커밋, PR 미정. 웹 클라이언트는 같은 Issue의 별도 브랜치 `feat/309-showcase-web`(다른 에이전트)이고 이 PR이 먼저 병합돼야 한다.
 - 구현: migration `0039_showcase_guest_trials.sql`, `apps/api/src/showcase/guest-trials.ts`(`ShowcaseGuestTrialService.start/resolve`, 모든 트랜잭션 DB 이름 재확인), `server.ts`(`POST /auth/guest-trial`·IP 제한·`GuestTrialError` 503·로컬 DEMO 배치의 Bearer 감싸기·시연 배치 배선), `merchant-catalog.ts`·`recommendation.ts`(체험 가게 제외), `access-requests.ts`(`trialMerchantId`), `grant-approver-command.ts`(체험 계정 거절), `merchant-art.ts`(체험 가게 생성·고르기 거절), `postgres/auth-session.ts`(`tokenHash` export), `postgres/account-deletion.ts`(체험 행 `account_id`를 별칭으로; 지우면 체험 가게가 목록에 다시 나온다). Caddyfile(`/play`·`/demo`), compose(Caddy `/srv/showcase-web` 읽기 전용), `verify-showcase-edge-routes.mjs`·`verify-lightsail-web.mjs`와 시험. `verify-showcase-host.mjs`는 바꿀 필요가 없었다(시연 compose 변화 없음; 체험 IP 제한에 필요한 `AUTH_TRUST_CADDY_FORWARDED_FOR=true`·API 볼륨 없음을 이미 강제).
